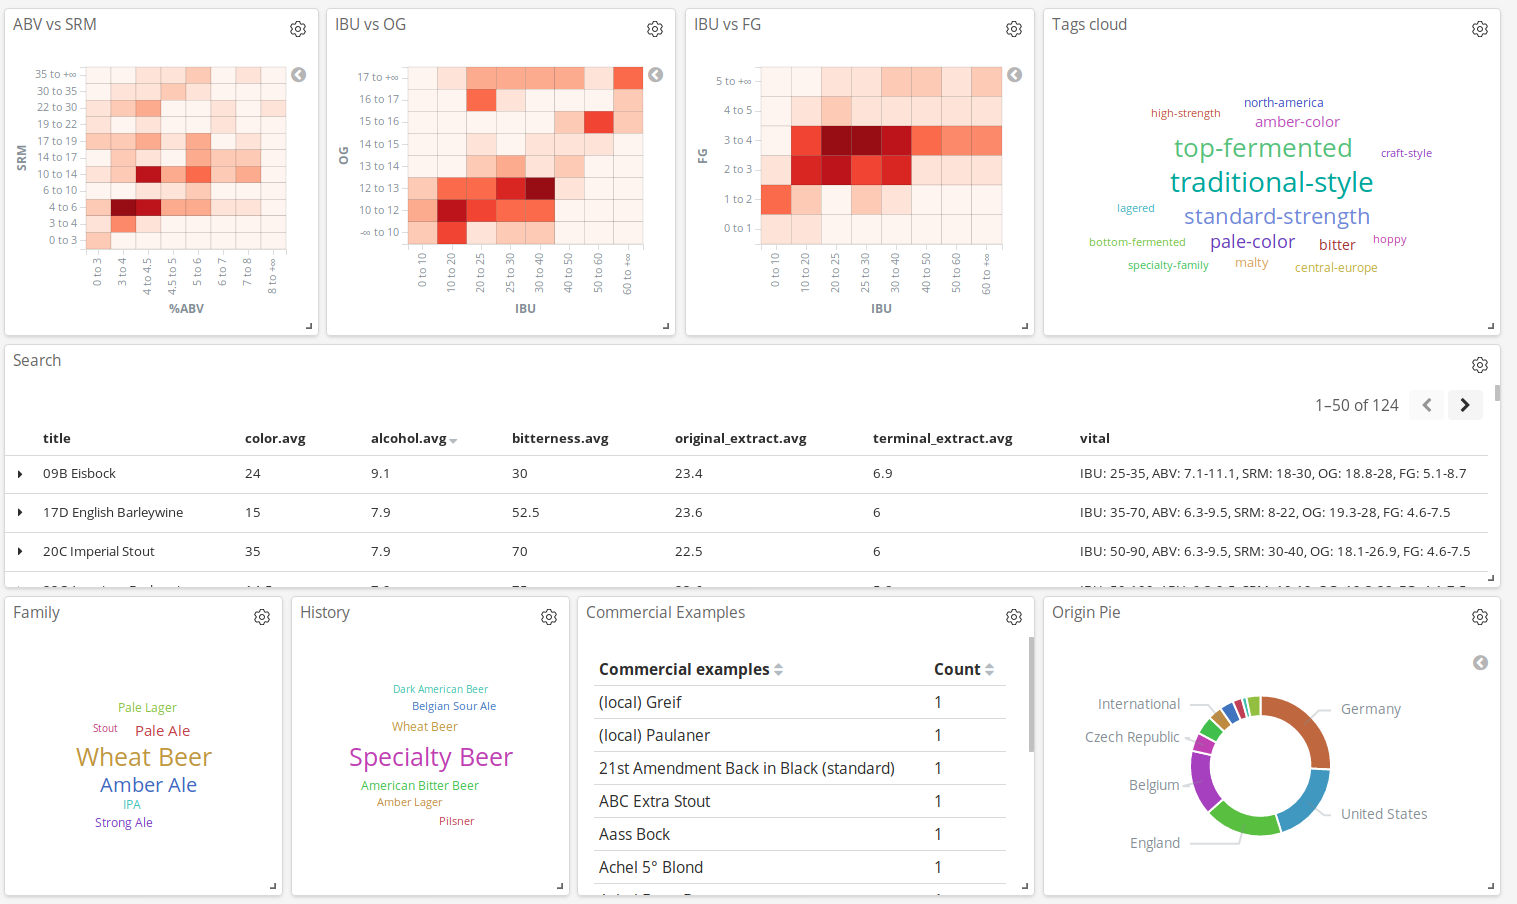
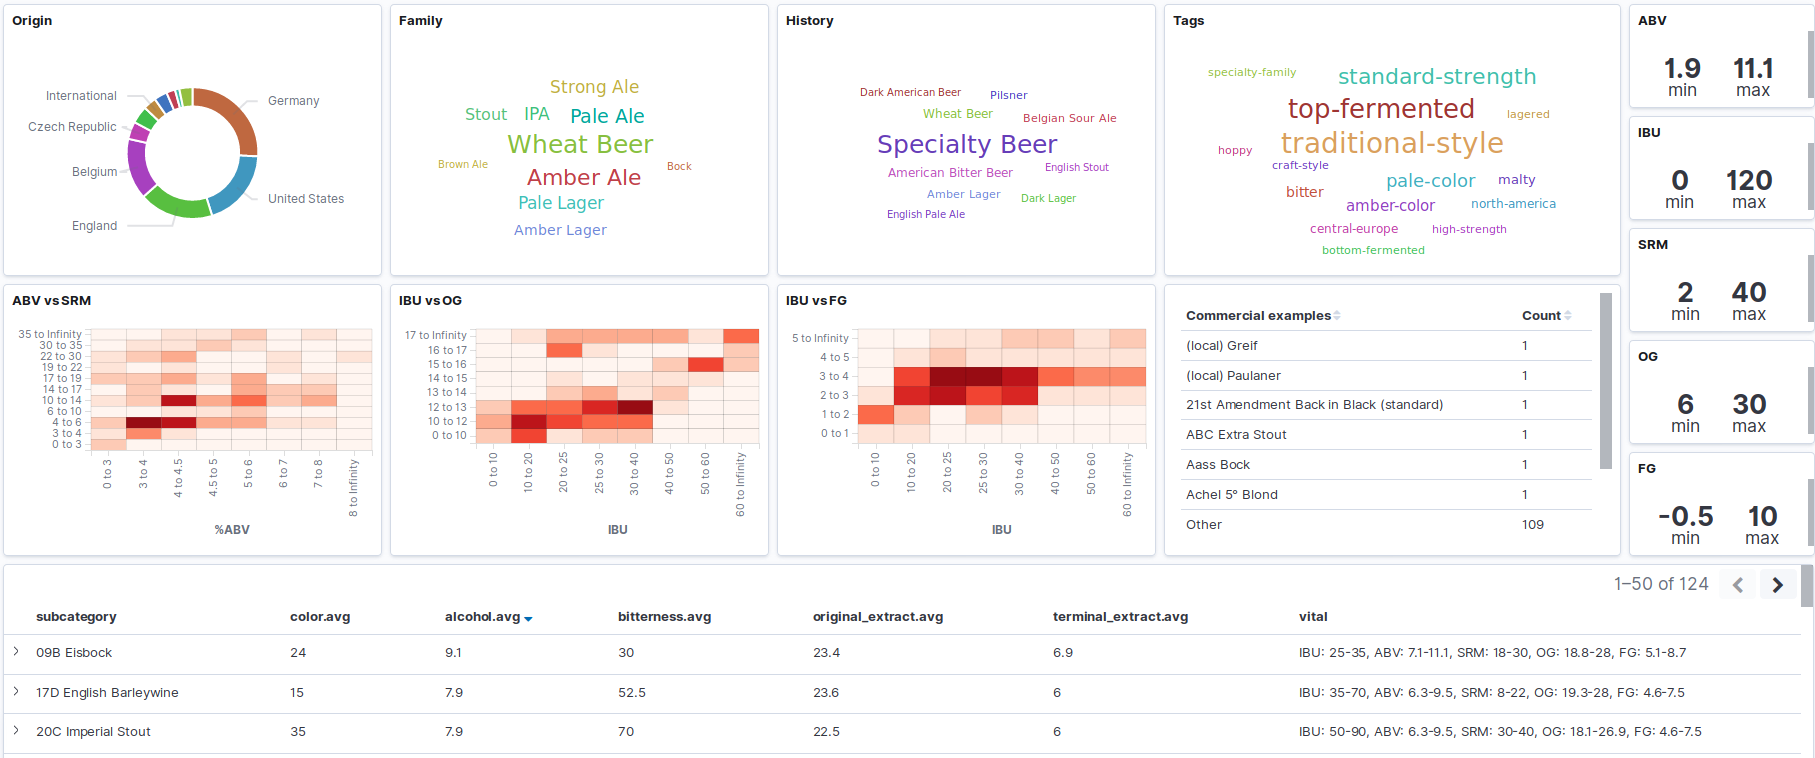
Update ELK 7.4, improve dashboard

diff --git a/README.md b/README.md
@@ -1,28 +1,41 @@
 # BJCP-ELK Basic analytics on the Beer Judge Certification Program Style Guide
 
-"The BJCP grants the right to make copies of the Style Guide for use in
-BJCP-sanctioned competitions or for educational/judge training purposes.
-All other rights reserved."
+BJCP is the [Beer Judge Certification Program](https://bjcp.org/), that among other things produces a beer style guidelines.
 
-This tools should be seen as a educational/training purpose, the only Style Guide reference 
-is on https://www.bjcp.org/.
+> The BJCP grants the right to make copies of the Style Guide for use in
+> BJCP-sanctioned competitions or for educational/judge training purposes.
+> All other rights reserved.
 
-EK is a stack composed of [Elasticsearch](https://www.elastic.co/products/elastic-stack) and [Kibana](https://www.elastic.co/products/kibana) that provides a way to intropect the Beer Style Guide.
+This repository uses the content of the 2015 BJCP Style Guide only as an educational/training and personal purposes.
+
+The original 2015 BJCP Style Guide reference can be found on https://www.bjcp.org/.
+
+ELK is a stack composed of [Elasticsearch](https://www.elastic.co/products/elastic-stack) and [Kibana](https://www.elastic.co/products/kibana) that provides at-a-glance insights into the Style Guide and enables you to drill down into details.
 
 ## Screenshots
 
 The default dashboard with 124 Sub categories of beer:
 ![BJCP Analytics](./bjcp-analytics.png)
 
-A filter on `amber-color` and `standard-strength` tags:
-![BJCP Analytics](./bjcp-analytics-amber-standard.png)
+Filtering on the Stout family:
+![BJCP Analytics](./bjcp-analytics-filter.png)
+
+Searching for a beer with citrus aroma and low bitterness:
+![BJCP Analytics](./bjcp-analytics-search.png)
 
 ## Installation
+
 ### Requirements
 
 You need to install: 
 - [docker](https://docs.docker.com/install/)
 - [docker-compose](https://docs.docker.com/compose/install/)
+
+For Mac OS, you have to update your `/etc/hosts` and add the following lines:
+```bash
+127.0.0.1 elastic.docker.localhost
+127.0.0.1 kibana.docker.localhost
+```
 
 ### Start the EK Stack
 
@@ -31,7 +44,18 @@ Open a terminal and run:
 docker-compose up
 ```
 
+The first time it will take time to download docker images, have a beer.
+The stack is up when you see some output like:
+
+```bash
+elastic          | {"type": "server", "timestamp": "2019-11-08T09:06:08,264Z", "level": "INFO", "component": "o.e.c.r.a.AllocationService", "cluster.name": "docker-cluster", "node.name": "elastic", "message": "Cluster health status changed from [YELLOW] to [GREEN] (reason: [shards started [[.kibana_1][0]]]).", "cluster.uuid": "76sBrZV1SXuR6CyjlGsFZQ", "node.id": "DK5p_IskRhuPpoWUmfm9Qg"  }
+...
+kibana           | {"type":"log","@timestamp":"2019-11-08T09:06:08Z","tags":["info","http","server","Kibana"],"pid":7,"message":"http server running at http://0:5601"
+```
+
 ### Load the Style Guide into Elasticsearch
+
+When the stack is started, run the `load.sh` script: 
 
 ```bash
 ./load.sh
@@ -39,44 +63,59 @@ docker-compose up
 
 ### Initialize the Kibana dashboard
 
-For Mac OS user update your `/etc/hosts` and add the following lines:
-```bash
-127.0.0.1 elastic.docker.localhost
-127.0.0.1 kibana.docker.localhost
-```
+1. Open a browser on: http://kibana.docker.localhost/app/kibana#/management/kibana/index_patterns
+  
+   - Click on `Create an index pattern`
+   - Enter index pattern: `bjcp*`
+   - Then `> Next Step` and `> Create index pattern`
+    
+2. Now import the dashboard from the management saved object tab:
+   http://kibana.docker.localhost/app/kibana#/management/kibana/objects
+   
+   - Click on `Import`
+   - Then select the `./export.ndjson` file and `Import`
+   - Change the index to `bjcp*`
+   - Click on `Confirm All changes`
 
-1. Open a browser on:  http://kibana.docker.localhost
+3. Go to the dashboard page and open the `bjcp` dashboard:
+   http://kibana.docker.localhost/app/kibana#/dashboards
 
-2. Go to the Management tab > Index Patterns > Create an index pattern > index pattern: "bjcp" > Next Step > Create Index pattern
-
-3. Go to the Management tab > Saved Objects > Import the file `./export.json` > Open > Import
-   change the index to "bjcp" if necessary > Confirm All changes
-
+      
 ## Usage
 
-Once the data is imported into Elasticsearch, you can go to the Kibana Dashboard:
-
-http://kibana.docker.localhost
-
-Dashboard > bjcp
-
-From there you can search or filter using the Kibana UI.
-
-The stack can be stopped:
+Once the installation is done, the stack can be stop:
 ```bash
 docker-compose down --volume
 ```
+
 And restart:
 ```bash
 docker-compose up -d
 ```
 
+The Dashboard is persisted on the `./data` directory so you can customize the dashboard.
 
 ## Dev
- 
-### Extract the Styles Guide from JSON to Elasticsearch bulk format
 
-Generate the bjcp-es.json file from the bjcp-2015.json file: 
+### About the data
+
+The 2015 BJCP Style Guide has been turned into a JSON version and augmented with few metadata:
+
+- `origin`: as described in [Styles Sorted Using Country of Origin](https://dev.bjcp.org/beer-styles/4-styles-sorted-using-country-of-origin/)
+- `family`: as described in [Styles Sorted Using Style Family](https://dev.bjcp.org/beer-styles/3-styles-sorted-using-style-family/)
+- `family_history`: as described in [Styles Sorted Using History](https://dev.bjcp.org/beer-styles/5-styles-sorted-using-history/) 
+
+The original and terminal extract are in Plato instead of SG. 
+
+For now only the subcategories are injected into Elasticsearch, some fields are added:
+
+- vital statistics averages: `alcohol.avg`, `original_extract.avg`, `terminal_extract.avg`, `bitterness.avg`, `color.avg`
+- subcategory names are prefixed with id formatted in sortable way (i.e 1A is rewrittend as 01A) 
+
+ 
+### Extract data from JSON to Elasticsearch bulk format
+
+Run the python script to generate the `bjcp-es.json` file: 
 ```bash    
 ./extract.py > ./bjcp-es.json
 ```
